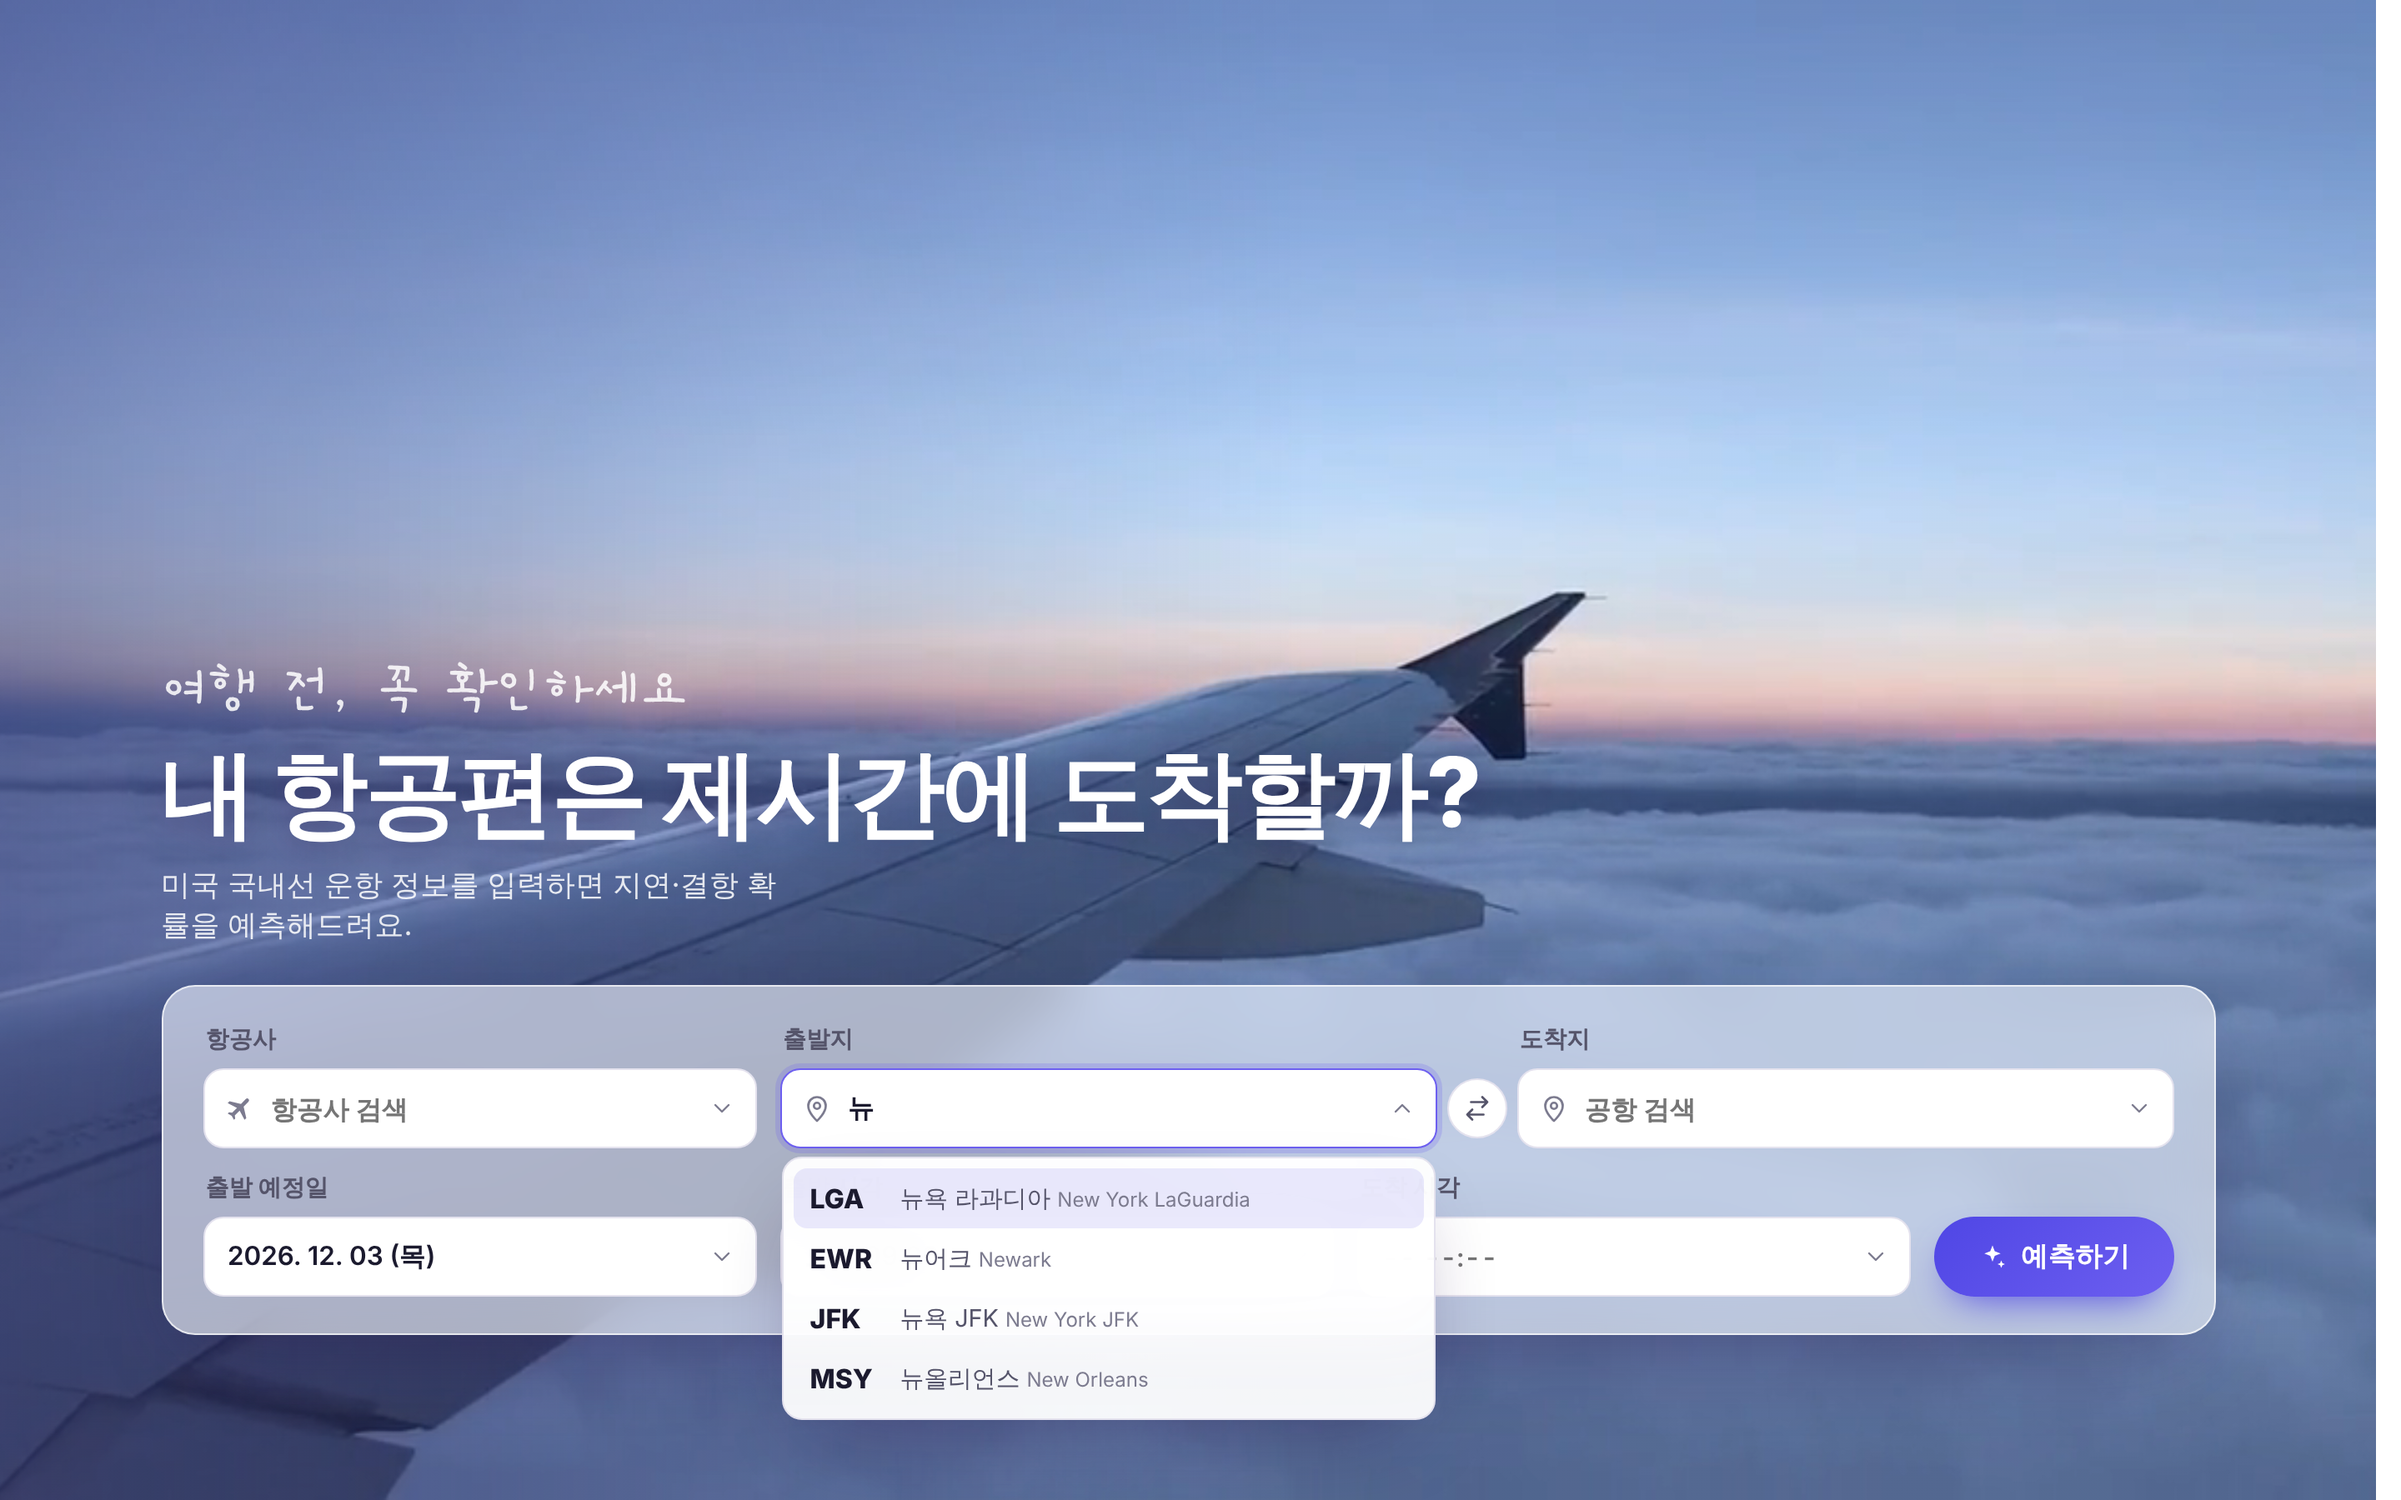
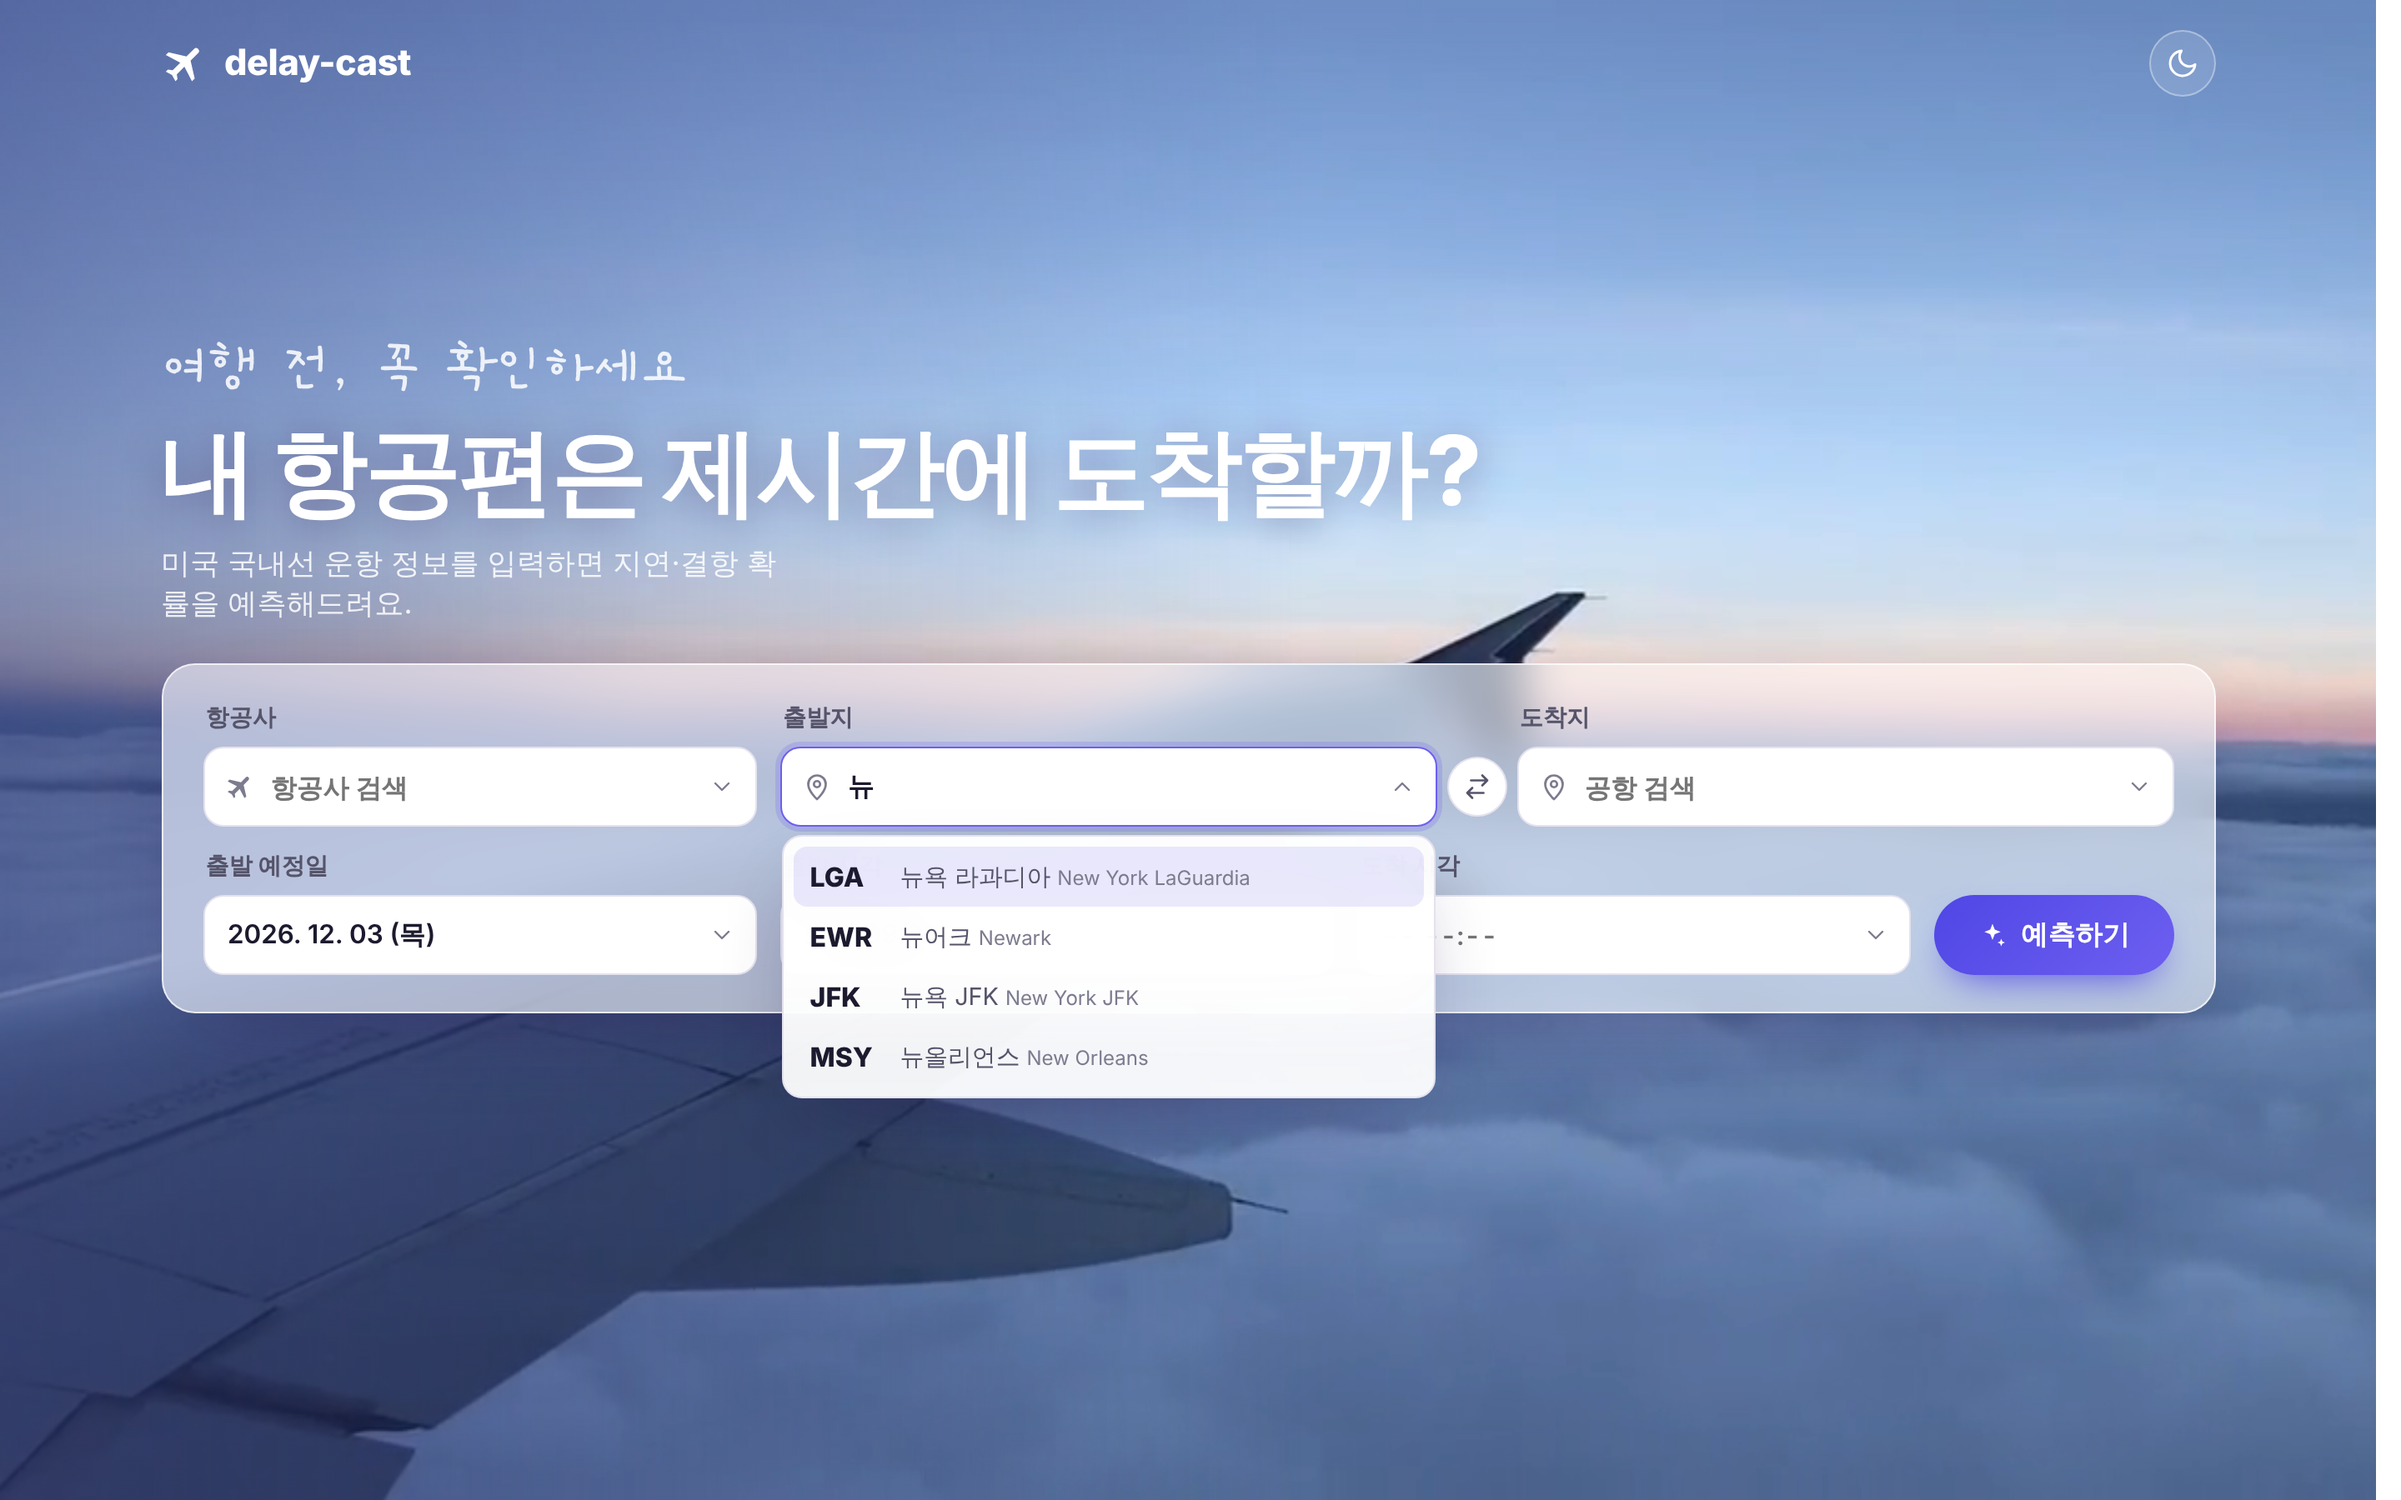
Reserve calendar room under the form so pickers open without scrolling
The form now sits just high enough that the tallest picker, the
calendar, fits below it with a small margin. On common screen sizes
every picker opens in place and the page no longer moves. Recent query
chips live inside that reserved space and are covered while a picker is
open. Short screens keep the previous behavior of lifting the page.

Claude-Session: https://claude.ai/code/session_016JjTxk6fsWy6dGfjNn2Z3X

diff --git a/app/static/style.css b/app/static/style.css
@@ -149,11 +149,19 @@ button, input { font: inherit; color: inherit; }
 main { position: relative; z-index: 1; max-width: 1280px; margin: 0 auto; padding: 0 24px; }
 
 /* 첫 화면: 제목·폼·최근 조회를 화면 아래쪽에 붙이고, 위쪽은 영상에 내준다.
-   상단바와 합쳐 정확히 화면 높이라서 처음에는 스크롤이 없고, 결과는 그 아래에 이어진다.
-   폼 아래 여백은 선택창이 펼쳐질 자리의 일부이고, 모자라면 room(app.js)이 화면을 올린다 */
+   상단바와 합쳐 정확히 화면 높이라서 처음에는 스크롤이 없고, 결과는 그 아래에 이어진다 */
 .first-screen {
-  min-height: calc(100svh - 2 * var(--topbar-pad) - 40px); box-sizing: border-box; padding-bottom: 40px;
+  min-height: calc(100svh - 2 * var(--topbar-pad) - 40px); box-sizing: border-box;
   display: flex; flex-direction: column; justify-content: flex-end;
+}
+/* 폼 아래에 가장 큰 선택창(달력 291px)이 화면 안에 펼쳐질 자리를 늘 비워 두어, 선택창을 열어도 화면이 움직이지 않는다.
+   날짜 칸 아래에 필요한 공간 = 12px(달력 간격) + 291px + 12px(화면 끝 여백) = 315px, 폼 안에 이미 있는 23px 를 뺀다.
+   최근 조회는 이 자리 안에 두고, 선택창이 열리면 그 위를 덮는다 */
+.under-form { min-height: 292px; }
+@media (max-width: 1080px) { .under-form { min-height: 222px; } }  /* 날짜 줄 아래에 예측하기 버튼 줄(70px)이 있다 */
+/* 자리를 비워 두면 첫 화면이 넘치는 낮은 화면에서는 비우지 않고, 선택창을 열 때 room(app.js)이 화면을 올린다 */
+@media (max-height: 620px), (max-width: 1080px) and (max-height: 760px), (max-width: 640px) {
+  .under-form { min-height: 0; padding-bottom: 32px; }
 }
 .hero { margin: 0 0 24px; color: var(--ink-on-sky); }
 .hero-script { font-family: "Gaegu", cursive; font-size: clamp(1.6rem, 3.4vw, 2.2rem); margin: 0; color: var(--ink-on-sky-2); }
@@ -378,7 +386,6 @@ main { position: relative; z-index: 1; max-width: 1280px; margin: 0 auto; paddin
   :root { --topbar-pad: 14px; }
   .topbar { padding-left: 16px; padding-right: 16px; }
   main { padding: 0 16px; }
-  .first-screen { padding-bottom: 24px; }
   /* 좁은 화면에서는 날개를 제목 오른쪽 뒤로 비키고, 제목 뒤에 아래쪽 덮개를 깐다 */
   .sky-video { object-position: 70% 30%; }
   .sky::before { background: linear-gradient(180deg, transparent 20%, color-mix(in srgb, var(--sky-1) 62%, transparent) 62%, transparent 95%); }

diff --git a/app/static/index.html b/app/static/index.html
@@ -127,9 +127,11 @@
         <small class="error form-error" data-for="_"></small>
       </form>
 
-      <div class="chips" id="recent-row" hidden>
-        <span class="chips-label">최근 조회</span>
-        <div class="chip-list" id="recent-list"></div>
+      <div class="under-form">
+        <div class="chips" id="recent-row" hidden>
+          <span class="chips-label">최근 조회</span>
+          <div class="chip-list" id="recent-list"></div>
+        </div>
       </div>
     </div>
 
